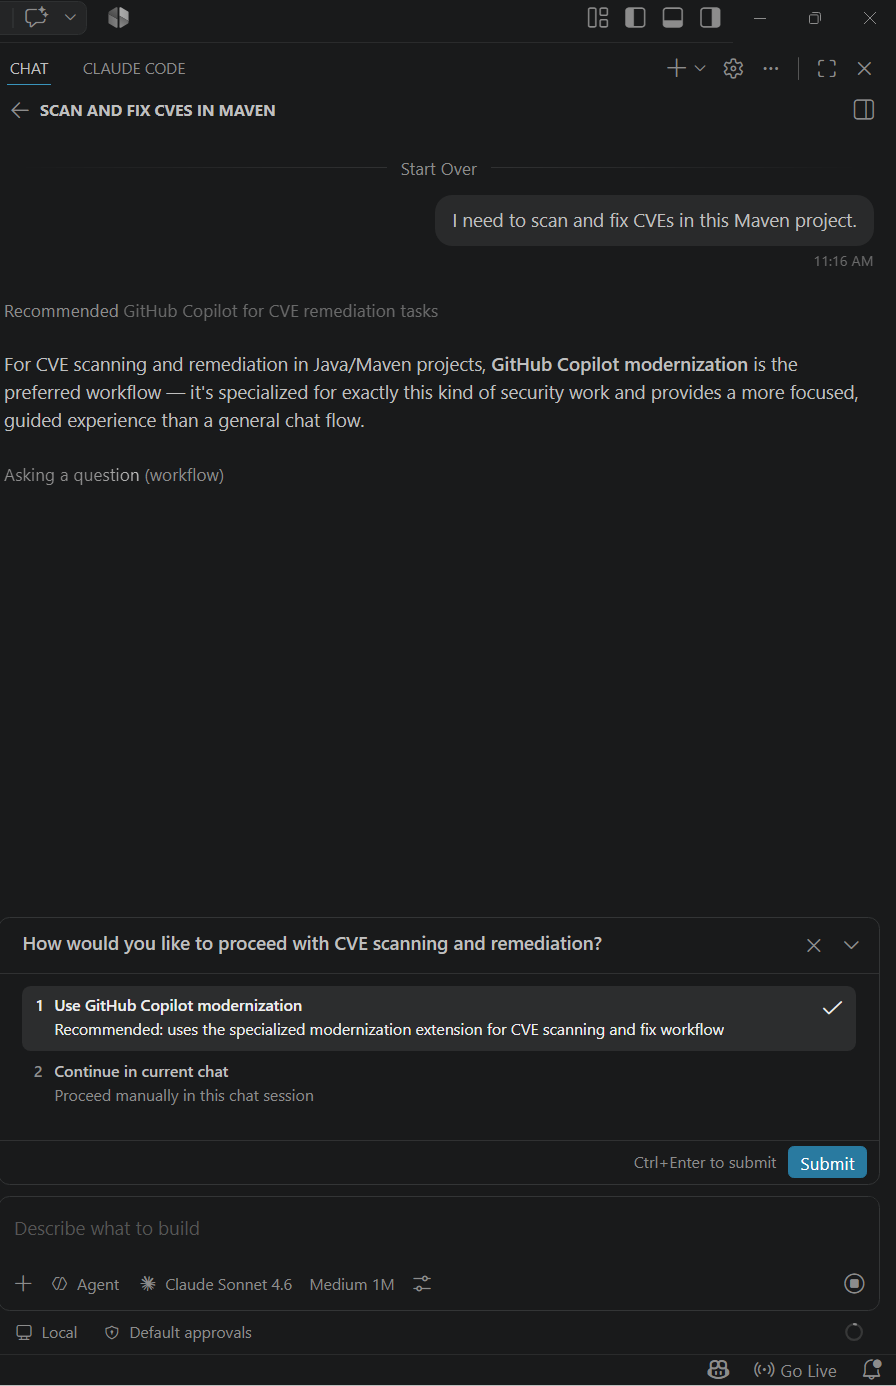
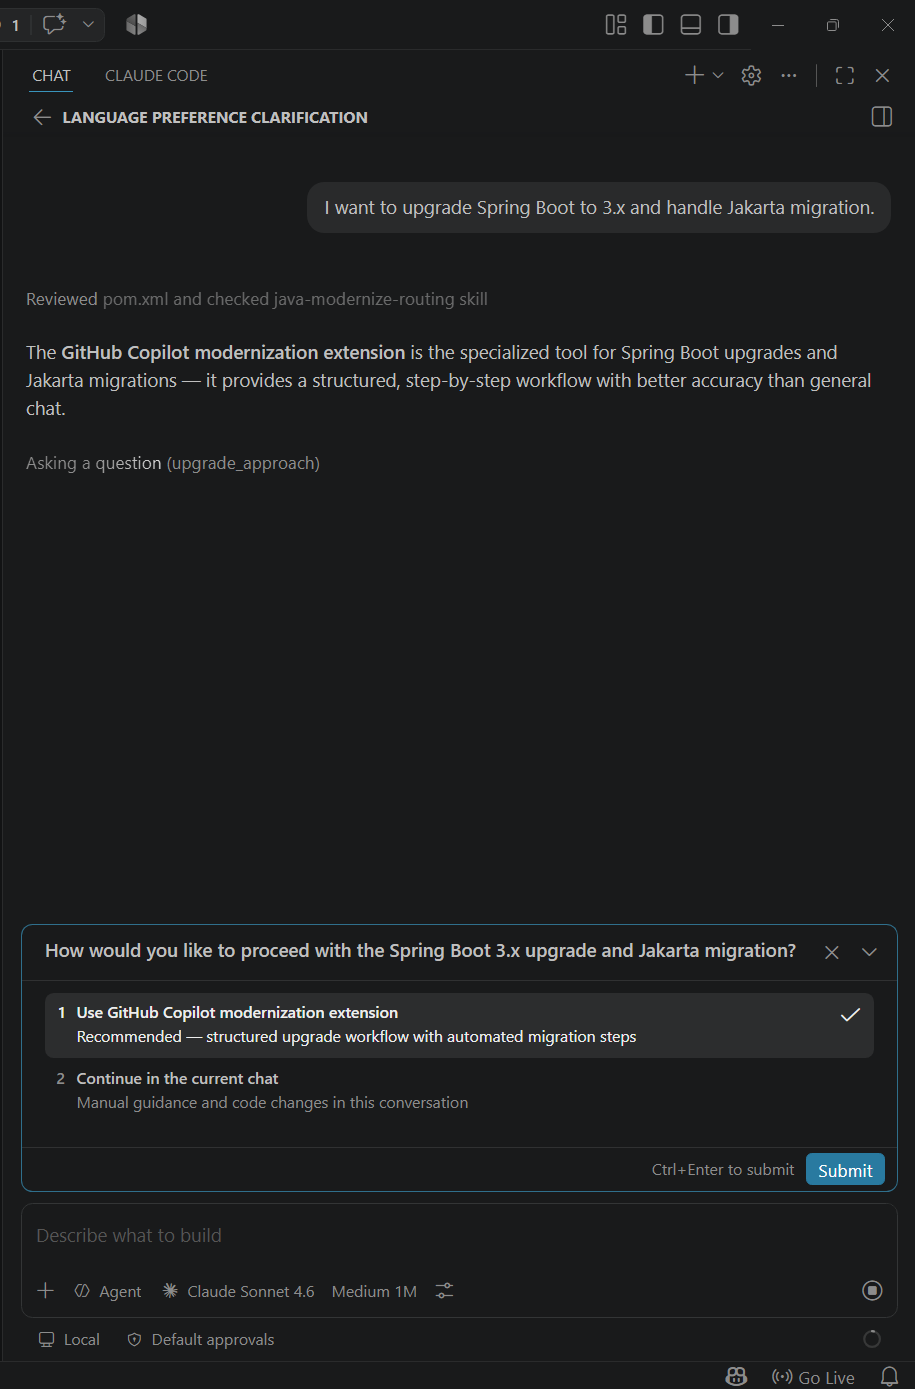
convert as skill, simplify, and update snapshots

diff --git a/README.md b/README.md
@@ -1,40 +1,29 @@
 # copilot-java-modernize-routing
 
-This repo contains a small GitHub Copilot instruction prototype for Java modernization topics.
-When a chat is mainly about Java upgrades or Java CVE remediation, it nudges Copilot to recommend the GitHub Copilot modernization workflow before continuing manually.
+A Copilot skill that routes Java upgrade and CVE remediation requests to the **GitHub Copilot modernization** extension.
 
-The current behavior is implemented as a single instruction in `.github/instructions/java-modernize-routing.instructions.md`, which applies broadly with `applyTo: "**"`.
+## Install
 
-## How To Use
+```
+@copilot /install-plugin github:haoozhang/copilot-java-modernize-routing
+```
 
-There are two practical ways to use this repo today.
+Or open this repo in VS Code to use it as a workspace-scoped skill.
 
-### Option 1: Use It As A Workspace-Scoped Customization
+## How It Works
 
-Open this folder in VS Code and start a fresh Copilot chat in this workspace.
-
-Because the repo contains `.github/instructions/java-modernize-routing.instructions.md`, Copilot can automatically discover and apply the instruction for relevant chats.
-
-### Option 2: Install It As A User-Level Instruction
-
-Copy this instruction file into your user instructions directory so it can be discovered across workspaces.
-
-Typical location: `~/.copilot/instructions/`
-
-With that setup, VS Code can automatically discover the instruction as a user-level customization.
-
-This is the better option when you want the same routing behavior available in multiple repos without copying `.github/instructions` into each repository.
-
-## Validation
-
-See `TEST-PROMPTS.md` for example prompts that should trigger the recommendation, partially trigger it, or not trigger it at all.
-
-## Screenshots
-
-**Step 1 — Routing prompt appears:** When a CVE/upgrade request is detected, Copilot surfaces a two-option question asking how to proceed.
+**Step 1 — Routing prompt:** Copilot presents two options — use the extension (recommended) or continue in chat.
 
 ![Routing prompt](screenshots/01-routing-prompt.png)
 
-**Step 2 — Extension installed and agent invoked:** After the user selects "Use GitHub Copilot modernization", the extension is installed (if needed) and the specialized security agent takes over.
+**Step 2 — Auto-install:** Copilot renders the extension card and installs it if not already present.
 
-![Agent invocation](screenshots/02-agent-invocation.png)
+![Extension install](screenshots/02-install-extension.png)
+
+**Step 3 — Agent handoff:** Routes to `modernize-java-upgrade` (upgrades) or `modernize-java-security` (CVEs).
+
+![Agent invocation](screenshots/03-agent-invocation.png)
+
+## Validation
+
+See `TEST-PROMPTS.md` for example prompts.

diff --git a/.github/skills/java-modernize-routing/SKILL.md b/.github/skills/java-modernize-routing/SKILL.md
@@ -1,0 +1,47 @@
+---
+name: java-modernize-routing
+description: 'For Java Maven or Gradle projects, route Java version, Spring Framework, Spring Boot, Java EE or Jakarta EE upgrades and CVE remediation to GitHub Copilot modernization extension.'
+user-invocable: true
+disable-model-invocation: false
+---
+
+# java-modernize-routing
+
+Route Java upgrade and CVE remediation requests to the GitHub Copilot modernization extension before falling back to general-purpose chat.
+
+**Use when** the user asks about:
+- Java version upgrade
+- Spring Framework / Spring Boot upgrade
+- Java EE / Jakarta EE upgrade
+- CVE scanning and remediation
+
+**NOT for**: general Java coding, architecture design, or non-Java topics.
+
+## Steps
+
+### 1 — Present options
+
+Briefly recommend `GitHub Copilot modernization` as the more specialized workflow for this task (1–2 sentences, not a hard requirement).
+
+Use `vscode_askQuestions` (`allowFreeformInput: false`) with two options:
+1. **Use GitHub Copilot modernization extension** *(Recommended)*
+2. **Continue in the current chat**
+
+Wait for the user's choice. Do not inspect files or propose steps yet.
+
+### 2a — User chooses the extension
+
+1. Render the extension card:
+   ````
+   ```vscode-extensions
+   vscjava.migrate-java-to-azure
+   ```
+   ````
+2. Use the `install_extension` tool to ensure the extension is installed (id: `vscjava.migrate-java-to-azure`, name: `GitHub Copilot modernization extension`).
+3. Route to the appropriate agent:
+   - Java / Spring / Jakarta upgrade → `modernize-java-upgrade`
+   - CVE remediation → `modernize-java-security`
+
+### 2b — User chooses manual chat
+
+Continue without friction. Do not repeat the recommendation in the same thread.
